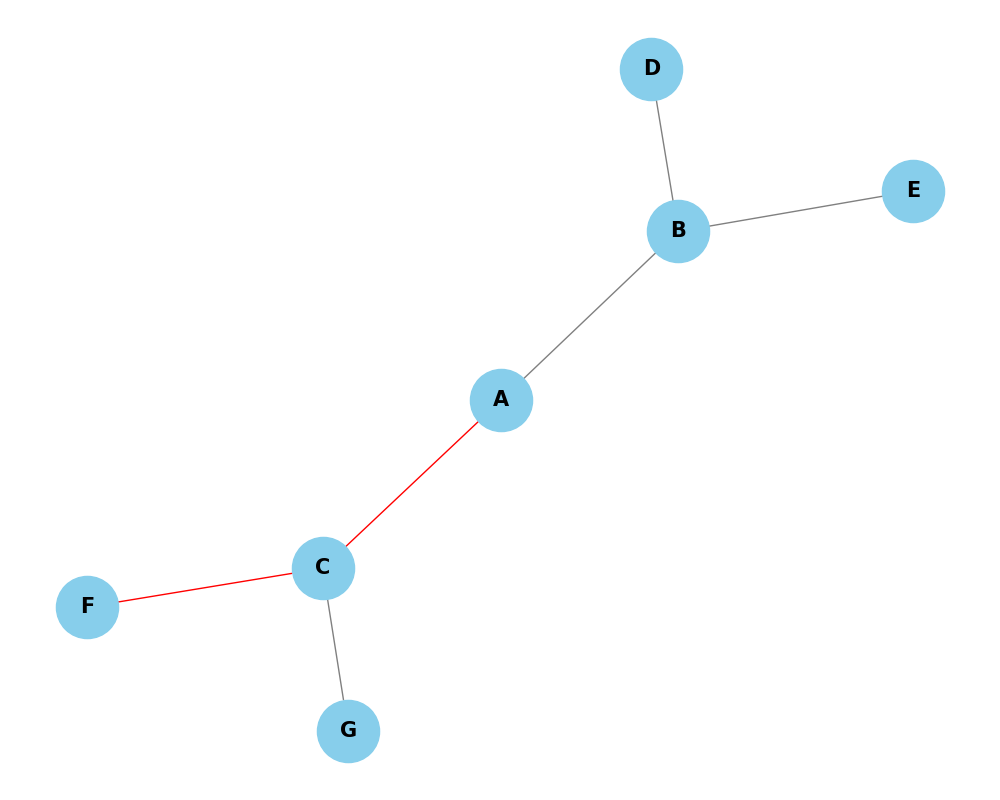
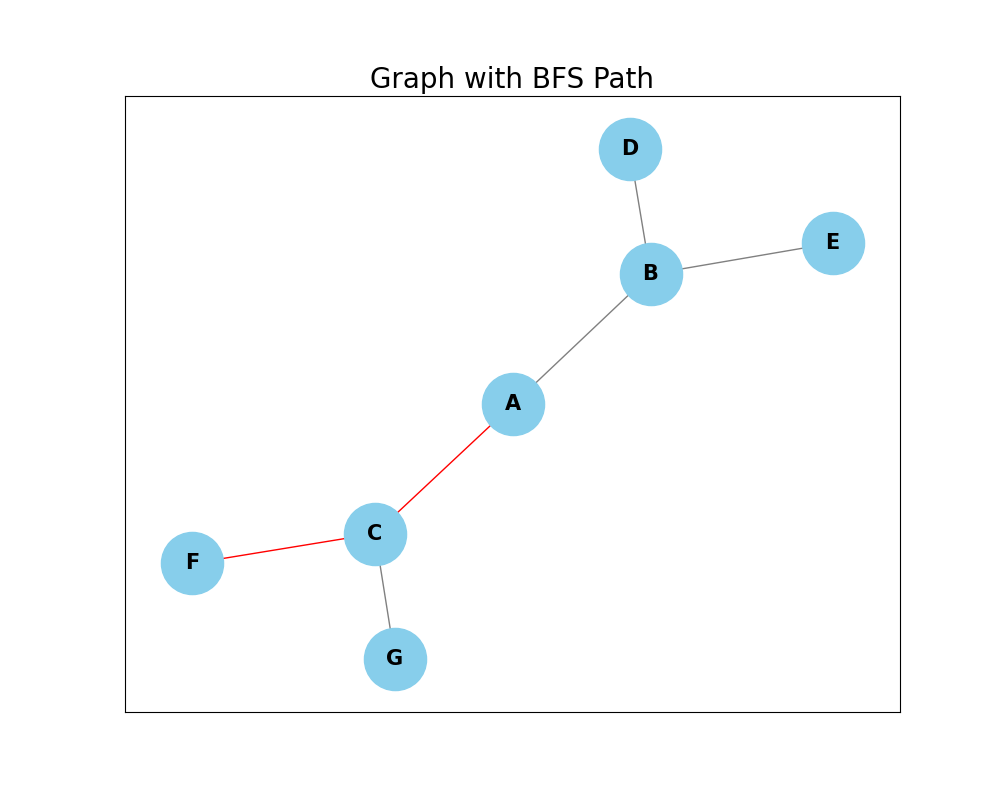
test

diff --git a/graph/Draw_path.py b/graph/Draw_path.py
@@ -1,23 +1,32 @@
-import networkx as nx
 import matplotlib.pyplot as plt
-from collections import deque
+import networkx as nx
 
-def draw_path_on_graph(graph, path, algorithm):
+def draw_path_on_graph(graph, path, algorithm, start_node=None):
     G = nx.Graph()
     for node, neighbors in graph.items():
         for neighbor in neighbors:
             G.add_edge(node, neighbor)
 
-    # Create a list of edges in the path
-    path_edges = [(path[i], path[i+1]) for i in range(len(path)-1)]
-
     pos = nx.spring_layout(G, seed=42)
     edge_labels = {(node, neighbor): '' for node, neighbors in graph.items() for neighbor in neighbors}
+
+    path_edges = [(path[i], path[i + 1]) for i in range(len(path) - 1)]
+        
     edge_colors = ['red' if (node, neighbor) in path_edges or (neighbor, node) in path_edges else 'gray' for node, neighbor in G.edges()]
 
+    # Sort edges so that edges starting with start_node are drawn first
+    edges = G.edges()
+    edges = sorted(edges, key=lambda edge: edge[0] != start_node)
+
     plt.figure(figsize=(10, 8))
-    nx.draw(G, pos, with_labels=True, node_size=2000, node_color='skyblue', font_size=15, font_weight='bold', arrows=True, edge_color=edge_colors)
+    nx.draw_networkx_edges(G, pos, edgelist=edges, edge_color=edge_colors)
+    nx.draw_networkx_nodes(G, pos, node_size=2000, node_color='skyblue')
+    nx.draw_networkx_labels(G, pos, font_size=15, font_weight='bold')
     nx.draw_networkx_edge_labels(G, pos, edge_labels=edge_labels, font_color='red', font_size=12)
-    plt.title('Graph with BFS Path', fontsize=20)
+
+    if start_node:
+        nx.draw_networkx_nodes(G, pos, nodelist=[start_node], node_color='green', node_size=2000)
+
+    plt.title(f'Graph with {algorithm} Path', fontsize=20)
     plt.savefig(f'graph/path_solution_{algorithm}.png', format='PNG')
     plt.show()

diff --git a/informed_search/A_Star.py b/informed_search/A_Star.py
@@ -1,0 +1,33 @@
+# AStarSearch.py
+
+import heapq
+from informed_search.heuristic import heuristic
+
+def a_star_search(graph, start, goal, heuristic_values):
+    # Priority queue to store (f_cost, current_node, path, g_cost)
+    priority_queue = []
+    heapq.heappush(priority_queue, (heuristic(start, goal, heuristic_values), start, [start], 0))
+    visited = set()
+    path_costs = {start: 0}
+
+    while priority_queue:
+        f_cost, current_node, path, g_cost = heapq.heappop(priority_queue)
+
+        if current_node == goal:
+            return path
+
+        visited.add(current_node)
+
+        for neighbor, weight in graph[current_node].items():
+            if neighbor in visited:
+                continue
+
+            new_g_cost = g_cost + weight
+            new_f_cost = new_g_cost + heuristic(neighbor, goal, heuristic_values)
+            
+            if neighbor not in path_costs or new_g_cost < path_costs[neighbor]:
+                path_costs[neighbor] = new_g_cost
+                new_path = path + [neighbor]
+                heapq.heappush(priority_queue, (new_f_cost, neighbor, new_path, new_g_cost))
+
+    return None

diff --git a/main.py b/main.py
@@ -1,4 +1,5 @@
 #!/usr/bin/env python3
+import heapq
 from graph.WeightedGraph import create_weighted_graph
 from graph.UnWeightedGraph import create_unweighted_graph
 from  graph.visualize_weighted_graph import visualize_graph
@@ -8,7 +9,9 @@ from uniformed_search.Breadth_first_Search import bfs
 from uniformed_search.Depth_first_search import dfs
 from uniformed_search.Depth_limited_Search import dls
 from informed_search.Best_first_search import best_first_search
-from informed_search.heuristic import heuristic_values
+from informed_search.heuristic import *
+from informed_search.A_Star import a_star_search
+
 if __name__ == "__main__":
     weighted_graph = create_weighted_graph()
     visualize_graph(weighted_graph)
@@ -30,4 +33,8 @@ if __name__ == "__main__":
     path = best_first_search(weighted_graph, 'A', 'G', heuristic_values)
     print(path)
     algorithm = 'Best_First_Search'
+    draw_path_on_graph(weighted_graph, path, algorithm)
+    path = a_star_search(weighted_graph, 'A', 'E', heuristic_values)
+    print(path)
+    algorithm = 'A_Star'
     draw_path_on_graph(weighted_graph, path, algorithm)
